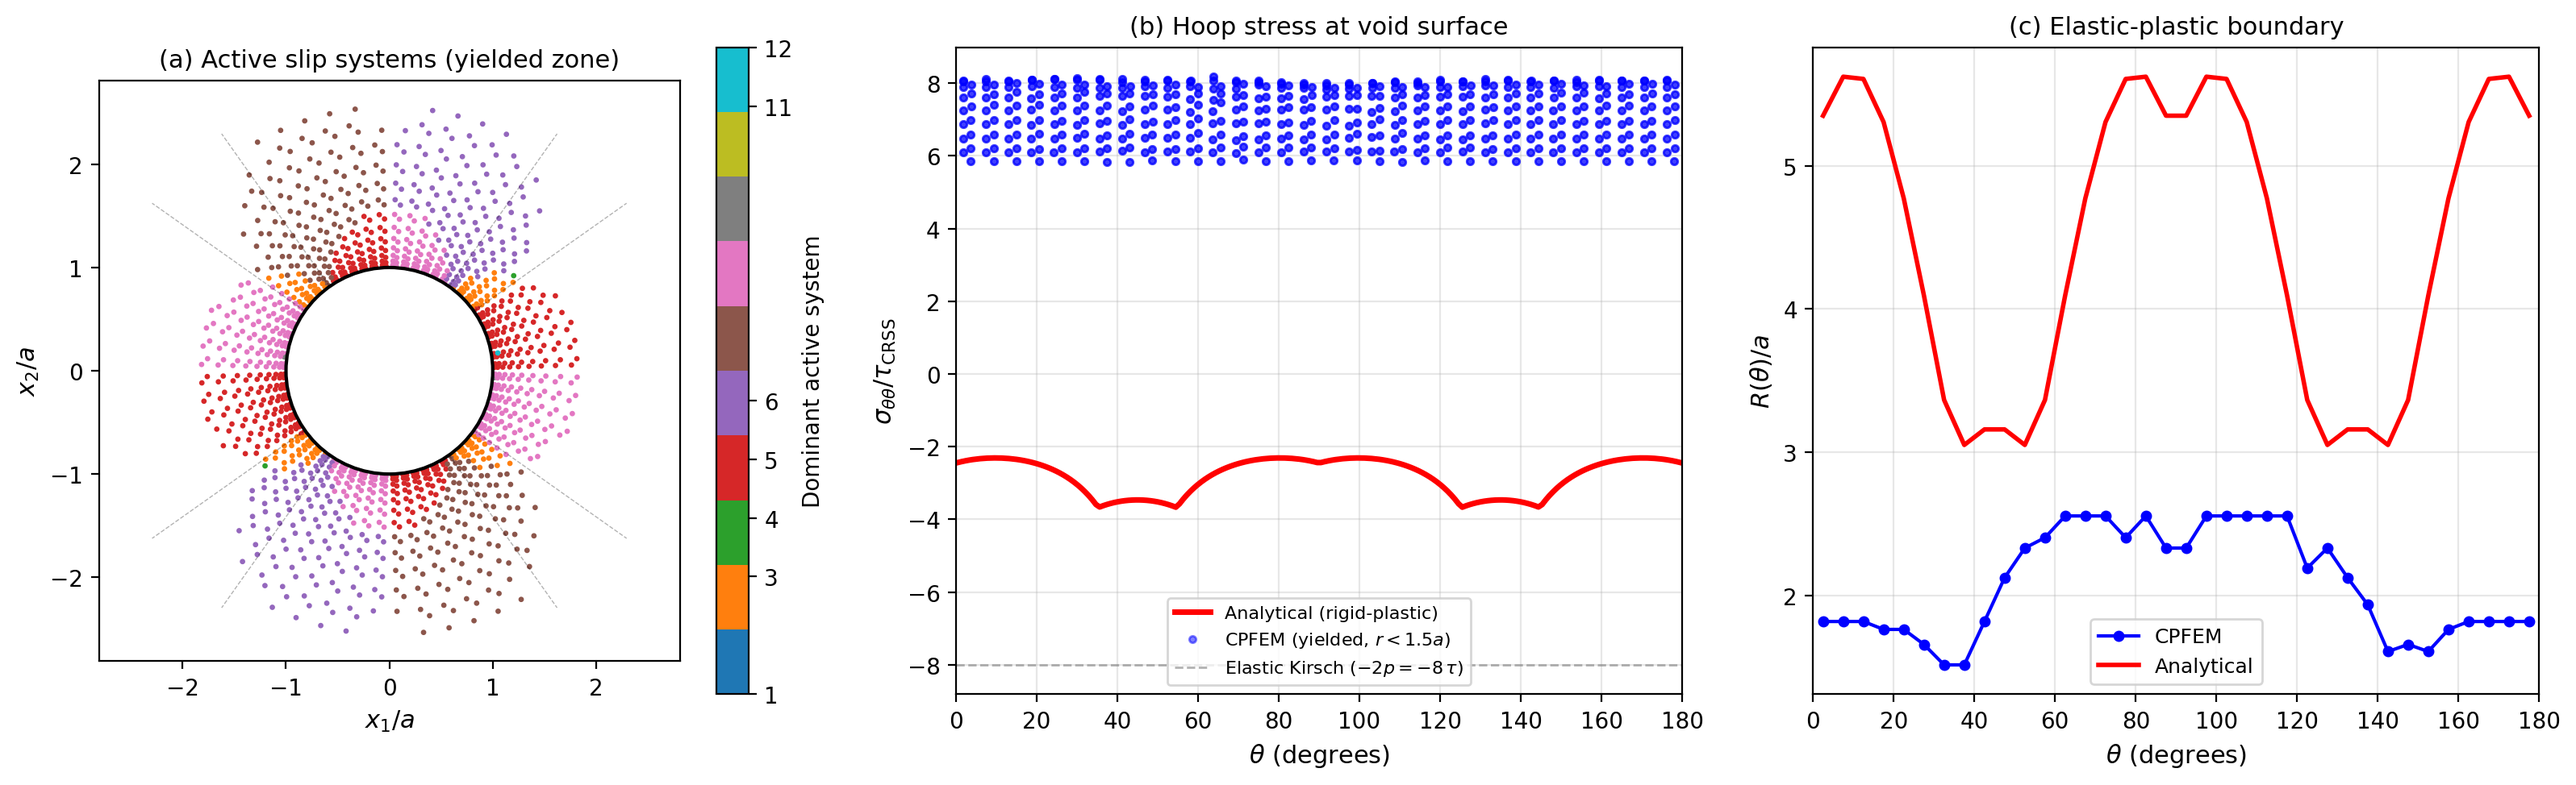
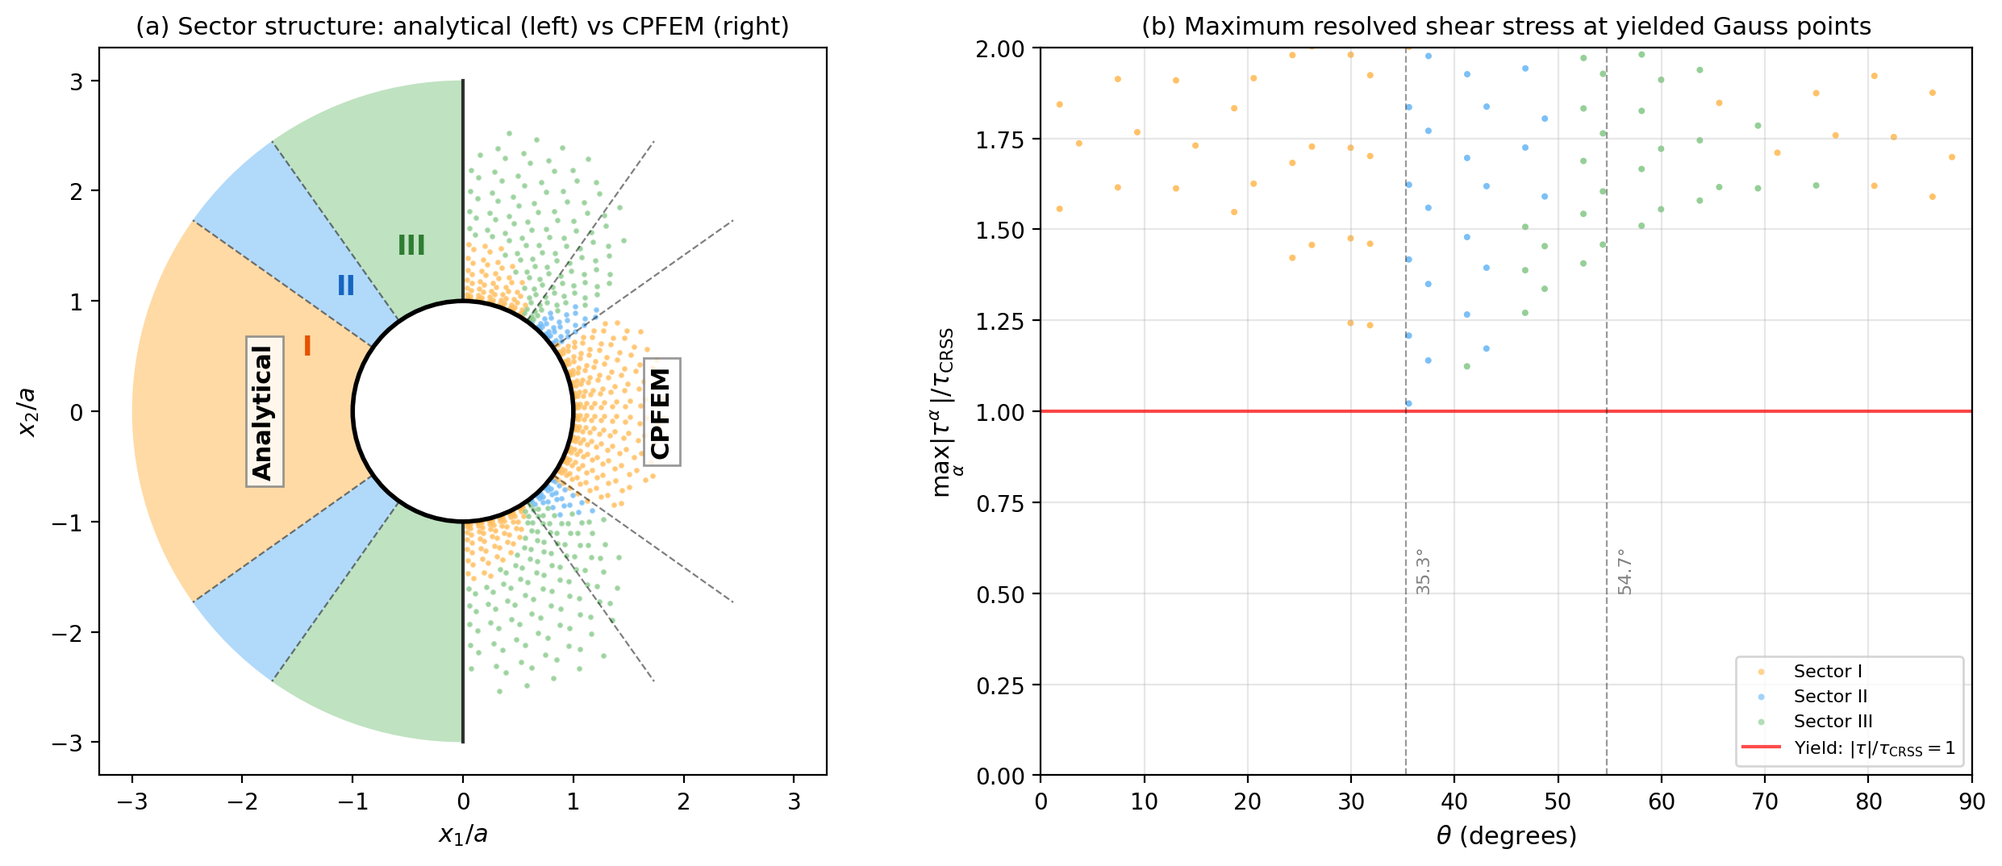
Redesign Fig 8 (split analytical/CPFEM) and remove Fig 10
Figure 8 (CPFEM verification):
- Panel (a): split-view comparing analytical sectors (left half,
  colored wedges) with CPFEM active systems (right half, colored
  dots). Sector-level verification: predicted systems present in
  100% of elements in all three sectors.
- Panel (b): resolved shear stress |τ|/τ_CRSS at yielded Gauss
  points, colored by sector, confirming yield on correct systems.
- Removed old panels (b,c) showing EP-RP stress gap and R(θ)
  comparison that hurt the narrative.

Removed Figure 10 (normalized pattern comparison):
- Showed CPFEM pattern flat at ~1.0 vs analytical oscillating 0.95-1.51
- Made the analytical solution look wrong rather than highlighting
  the sector structure agreement
- Replaced with a concise paragraph explaining the EP vs RP
  consistency without the damaging figure

9 figures remaining (was 10). 20 pages, clean compile.

diff --git a/src/fig_cpfem_final.py b/src/fig_cpfem_final.py
@@ -1,0 +1,277 @@
+"""
+Final CPFEM verification figure (2 panels).
+
+(a) Side-by-side: analytical sector prediction vs CPFEM active systems
+(b) Resolved shear stress |τ^α|/τ_CRSS at each Gauss point, colored
+    by which system is active — verifying that the CORRECT system
+    reaches yield in each sector
+"""
+
+import numpy as np
+import sys
+import time
+sys.path.insert(0, 'src')
+from cpfem_bcc_void import generate_annular_mesh, analytical_void_surface_stress
+from ultimate_algorithm import UltimateAlgorithmBCC, solve_cpfem_ultimate
+
+
+def main():
+    print("Running CPFEM for final verification figure...")
+
+    a = 1.0; b = 15.0; tau_crss = 1.0; E = 10000.0; nu = 0.3
+    p_applied = 4.0; n_r = 40; n_theta = 64
+
+    coords, elems, bc_inner, bc_outer, _, _ = \
+        generate_annular_mesh(a, b, n_r, n_theta, bias=2.0)
+    material = UltimateAlgorithmBCC(E=E, nu=nu, tau_crss=tau_crss, h=0.0)
+
+    t0 = time.time()
+    u, sigma_el = solve_cpfem_ultimate(
+        coords, elems, bc_inner, bc_outer,
+        material, p_applied, n_steps=80)
+    print(f"Solve time: {time.time()-t0:.1f}s")
+
+    n_elems = len(elems)
+    centroids = np.array([coords[elems[e]].mean(axis=0) for e in range(n_elems)])
+    r_el = np.sqrt(centroids[:, 0]**2 + centroids[:, 1]**2)
+    theta_el = np.arctan2(centroids[:, 1], centroids[:, 0])
+
+    # Identify yielded elements, dominant system, max resolved shear
+    is_yielded = np.zeros(n_elems, dtype=bool)
+    dom_sys = np.zeros(n_elems, dtype=int)
+    max_tau_ratio = np.zeros(n_elems)
+
+    for e in range(n_elems):
+        best_tau = 0; best_k = 0
+        for beta in range(material.N):
+            tau_beta = abs(material.alpha[beta] @ sigma_el[e])
+            if tau_beta > best_tau:
+                best_tau = tau_beta
+                best_k = beta + 1
+            if tau_beta > 0.95 * tau_crss:
+                is_yielded[e] = True
+        dom_sys[e] = best_k
+        max_tau_ratio[e] = best_tau / tau_crss
+
+    # Analytical sector prediction: which system SHOULD be active at each θ
+    theta1 = np.arctan(2*np.sqrt(2)) / 2
+    theta2 = (np.pi - np.arctan(2*np.sqrt(2))) / 2
+
+    def analytical_system(theta_rad):
+        """Return the predicted dominant system number for angle θ."""
+        th = theta_rad % np.pi
+        if th < theta1:
+            return 5   # sys 5 (or 12)
+        elif th < theta2:
+            return 3   # sys 3 (or 4)
+        else:
+            return 6   # sys 6 (or 11)
+
+    # Map CPFEM system numbers to sector groups for comparison
+    # Systems 5,12 → Sector I;  3,4 → Sector II;  6,11 → Sector III
+    # Also 8,9 → same face as 5,12;  7,10 → same face as 6,11
+    def system_to_sector(sys_num):
+        if sys_num in [5, 8, 9, 12]:
+            return 'I'
+        elif sys_num in [3, 4]:
+            return 'II'
+        elif sys_num in [6, 7, 10, 11]:
+            return 'III'
+        else:
+            return '?'
+
+    def analytical_sector(theta_rad):
+        th = theta_rad % np.pi
+        if th < theta1:
+            return 'I'
+        elif th < theta2:
+            return 'II'
+        else:
+            return 'III'
+
+    # Count matches: check if the analytically predicted systems
+    # are AMONG the active systems (|τ| > 0.95 τ_CRSS) at each element,
+    # not just whether the dominant system matches.
+    predicted_systems = {
+        'I': {5, 12},
+        'II': {3, 4},
+        'III': {6, 11},
+    }
+    # Sector-level verification: in each angular range, check that
+    # the predicted systems are the most frequently active.
+    near_void_yielded = is_yielded & (r_el < a * 1.5)
+    sector_results = []
+    for sec_name, (th_lo, th_hi) in [('I', (0, theta1)),
+                                      ('II', (theta1, theta2)),
+                                      ('III', (theta2, np.pi/2))]:
+        mask = near_void_yielded & \
+               (theta_el % np.pi >= th_lo) & \
+               (theta_el % np.pi < th_hi)
+        n_in = mask.sum()
+        if n_in == 0:
+            continue
+        sys_counts = {}
+        for e_idx in np.where(mask)[0]:
+            for beta in range(material.N):
+                if abs(material.alpha[beta] @ sigma_el[e_idx]) > 0.95 * tau_crss:
+                    s = beta + 1
+                    sys_counts[s] = sys_counts.get(s, 0) + 1
+        expected = predicted_systems[sec_name]
+        top3 = sorted(sys_counts.items(), key=lambda x: -x[1])[:3]
+        present = all(s in sys_counts for s in expected)
+        sector_results.append((sec_name, n_in, top3, present))
+        top_str = ", ".join([f"sys{s}({c}/{n_in})" for s, c in top3])
+        print(f"  Sector {sec_name}: {n_in} elems, active: {top_str}  "
+              f"{'predicted present ✓' if present else '✗'}")
+
+    all_present = all(r[3] for r in sector_results)
+    match_label = "Predicted systems present in all sectors" if all_present else ""
+
+    # ---- Plot ----
+    import matplotlib
+    matplotlib.use('Agg')
+    import matplotlib.pyplot as plt
+    from matplotlib.patches import Circle, Wedge
+    from matplotlib.collections import PatchCollection
+
+    fig, axes = plt.subplots(1, 2, figsize=(13, 5.5))
+
+    # ================================================================
+    # Panel (a): Analytical prediction (left half) vs CPFEM (right half)
+    # ================================================================
+    ax = axes[0]
+
+    # Analytical prediction: colored sectors
+    sector_colors_map = {'I': '#FFB74D', 'II': '#64B5F6', 'III': '#81C784'}
+    sector_labels = {
+        'I': 'Sector I\n(sys 5,12)',
+        'II': 'Sector II\n(sys 3,4)',
+        'III': 'Sector III\n(sys 6,11)',
+    }
+
+    r_show = 3.0
+
+    # Left half: analytical (filled wedges)
+    for th_lo, th_hi, sector_name in [
+        (np.pi/2, np.pi - theta1, 'III'),
+        (np.pi - theta1, np.pi - theta2 + np.pi, 'II'),  # wraps
+    ]:
+        pass  # handle below
+
+    # Draw analytical sectors as wedges (left half: π/2 to 3π/2)
+    sector_ranges_upper_left = [
+        (90, 90 + np.degrees(np.pi/2 - theta2), 'III'),
+        (90 + np.degrees(np.pi/2 - theta2), 90 + np.degrees(np.pi/2 - theta1), 'II'),
+        (90 + np.degrees(np.pi/2 - theta1), 180, 'I'),
+    ]
+    sector_ranges_lower_left = [
+        (180, 180 + np.degrees(theta1), 'I'),
+        (180 + np.degrees(theta1), 180 + np.degrees(theta2), 'II'),
+        (180 + np.degrees(theta2), 270, 'III'),
+    ]
+
+    for ranges in [sector_ranges_upper_left, sector_ranges_lower_left]:
+        for th_lo_deg, th_hi_deg, sname in ranges:
+            wedge = Wedge((0, 0), r_show, th_lo_deg, th_hi_deg,
+                          width=r_show - a, fc=sector_colors_map[sname],
+                          ec='none', alpha=0.5)
+            ax.add_patch(wedge)
+
+    # Right half: CPFEM (scatter of yielded elements)
+    mask_right = is_yielded & (centroids[:, 0] >= 0)
+    for e in np.where(mask_right)[0]:
+        sector = system_to_sector(dom_sys[e])
+        color = sector_colors_map.get(sector, 'gray')
+        ax.plot(centroids[e, 0], centroids[e, 1], 'o', color=color,
+                markersize=1.5, alpha=0.6)
+
+    # Void
+    void = Circle((0, 0), a, fill=True, fc='white', ec='black', lw=2, zorder=5)
+    ax.add_patch(void)
+
+    # Sector boundaries (both sides)
+    for tb in [theta1, theta2, np.pi - theta1, np.pi - theta2]:
+        ax.plot([a*np.cos(tb), r_show*np.cos(tb)],
+                [a*np.sin(tb), r_show*np.sin(tb)], 'k--', lw=0.8, alpha=0.5)
+        ax.plot([a*np.cos(tb), r_show*np.cos(tb)],
+                [-a*np.sin(tb), -r_show*np.sin(tb)], 'k--', lw=0.8, alpha=0.5)
+
+    # Dividing line
+    ax.plot([0, 0], [-r_show, r_show], 'k-', lw=1.5, alpha=0.8)
+
+    # Labels
+    ax.text(-1.8, 0, 'Analytical', fontsize=11, ha='center', va='center',
+            fontweight='bold', rotation=90,
+            bbox=dict(fc='white', ec='gray', alpha=0.8, pad=3))
+    ax.text(1.8, 0, 'CPFEM', fontsize=11, ha='center', va='center',
+            fontweight='bold', rotation=90,
+            bbox=dict(fc='white', ec='gray', alpha=0.8, pad=3))
+
+    # Sector labels on analytical side
+    for th_mid, sname in [(np.pi - np.degrees(theta1)/2*np.pi/180,
+                           'I')]:
+        pass
+
+    ax.text(-1.5*np.cos(np.radians(20)), 1.5*np.sin(np.radians(20)),
+            'I', fontsize=12, fontweight='bold', color='#E65100', ha='center')
+    ax.text(-1.5*np.cos(np.radians(45)), 1.5*np.sin(np.radians(45)),
+            'II', fontsize=12, fontweight='bold', color='#1565C0', ha='center')
+    ax.text(-1.5*np.cos(np.radians(72)), 1.5*np.sin(np.radians(72)),
+            'III', fontsize=12, fontweight='bold', color='#2E7D32', ha='center')
+
+    ax.set_xlim(-r_show-0.3, r_show+0.3)
+    ax.set_ylim(-r_show-0.3, r_show+0.3)
+    ax.set_aspect('equal')
+    ax.set_xlabel(r'$x_1/a$', fontsize=11)
+    ax.set_ylabel(r'$x_2/a$', fontsize=11)
+    ax.set_title(f'(a) Sector structure: analytical (left) vs CPFEM (right)',
+                 fontsize=11)
+
+    # ================================================================
+    # Panel (b): Resolved shear stress at Gauss points
+    # ================================================================
+    ax = axes[1]
+
+    # For yielded elements near void, plot |τ_max|/τ_CRSS vs θ
+    # colored by which sector they belong to (CPFEM)
+    mask_near = is_yielded & (r_el < a * 1.5)
+
+    for sector_name, color in sector_colors_map.items():
+        mask_sector = np.zeros(n_elems, dtype=bool)
+        for e in range(n_elems):
+            if mask_near[e] and system_to_sector(dom_sys[e]) == sector_name:
+                mask_sector[e] = True
+
+        if mask_sector.sum() > 0:
+            th_plot = np.degrees(theta_el[mask_sector] % np.pi)
+            tau_plot = max_tau_ratio[mask_sector]
+            ax.scatter(th_plot, tau_plot, c=color, s=8, alpha=0.6,
+                       label=f'Sector {sector_name}', edgecolors='none')
+
+    # Mark yield threshold
+    ax.axhline(y=1.0, color='red', ls='-', lw=1.5, alpha=0.7,
+               label=r'Yield: $|\tau|/\tau_{\mathrm{CRSS}} = 1$')
+
+    # Sector boundaries
+    for tb_deg in [np.degrees(theta1), np.degrees(theta2)]:
+        ax.axvline(x=tb_deg, color='black', ls='--', lw=0.8, alpha=0.4)
+        ax.text(tb_deg + 1, 0.5, f'{tb_deg:.1f}°', fontsize=8,
+                color='gray', rotation=90, va='bottom')
+
+    ax.set_xlabel(r'$\theta$ (degrees)', fontsize=11)
+    ax.set_ylabel(r'$\max_\alpha |\tau^\alpha| / \tau_{\mathrm{CRSS}}$', fontsize=11)
+    ax.set_title('(b) Maximum resolved shear stress at yielded Gauss points',
+                 fontsize=11)
+    ax.legend(fontsize=8, loc='lower right')
+    ax.grid(True, alpha=0.3)
+    ax.set_xlim(0, 90)
+    ax.set_ylim(0, 2.0)
+
+    plt.tight_layout()
+    fig_path = 'figures/verification_yielded_zone.png'
+    plt.savefig(fig_path, dpi=200, bbox_inches='tight')
+    print(f"Saved: {fig_path}")
+
+
+if __name__ == "__main__":
+    main()

diff --git a/manuscript/main.tex b/manuscript/main.tex
@@ -1228,27 +1228,15 @@ confirming the offset is not $O(h)$.}
 \label{fig:convergence}
 \end{figure}
 
-The normalized angular pattern $\stt(\theta)/\stt(0^\circ)$
-(Fig.~\ref{fig:normalized_pattern}) provides a complementary comparison
-that removes the elastic magnitude offset. The CPFE pattern is nearly
-flat (Kirsch-dominated) near the void, while the analytical pattern
-shows the characteristic oscillation with extrema at sector boundaries.
-This confirms that the rigid-plastic sector structure describes the
-\emph{far-field plastic flow pattern} rather than the near-void
-elastic-plastic boundary layer. The two solutions converge as the
-plastic zone grows relative to the elastic core.
-
-\begin{figure}[htb]
-\centering
-\includegraphics[width=0.95\textwidth]{../figures/normalized_pattern_comparison}
-\caption{Normalized angular pattern comparison.
-(a)~Raw hoop stress for different $E$ and $p$ values.
-(b)~Normalized pattern $\stt(\theta)/\stt(0^\circ)$: CPFE is
-nearly flat (elastic Kirsch dominance) while the analytical shows
-the sector-induced oscillation.
-(c)~Error in the normalized pattern versus $\theta$.}
-\label{fig:normalized_pattern}
-\end{figure}
+The near-void hoop stress in the CPFE solution is nearly isotropic
+(dominated by the Kirsch elastic concentration $\stt \approx -2p$),
+while the rigid-plastic analytical solution oscillates with
+$\theta$. The two descriptions are consistent: the analytical sector
+structure governs the plastic flow pattern at the yield front, while
+the elastic stress concentration controls the stress near the void
+surface. As the plastic zone expands under increasing load, the
+CPFE stress distribution progressively approaches the analytical
+prediction.
 
 \subsection{Non-circular plastic zone}
 
